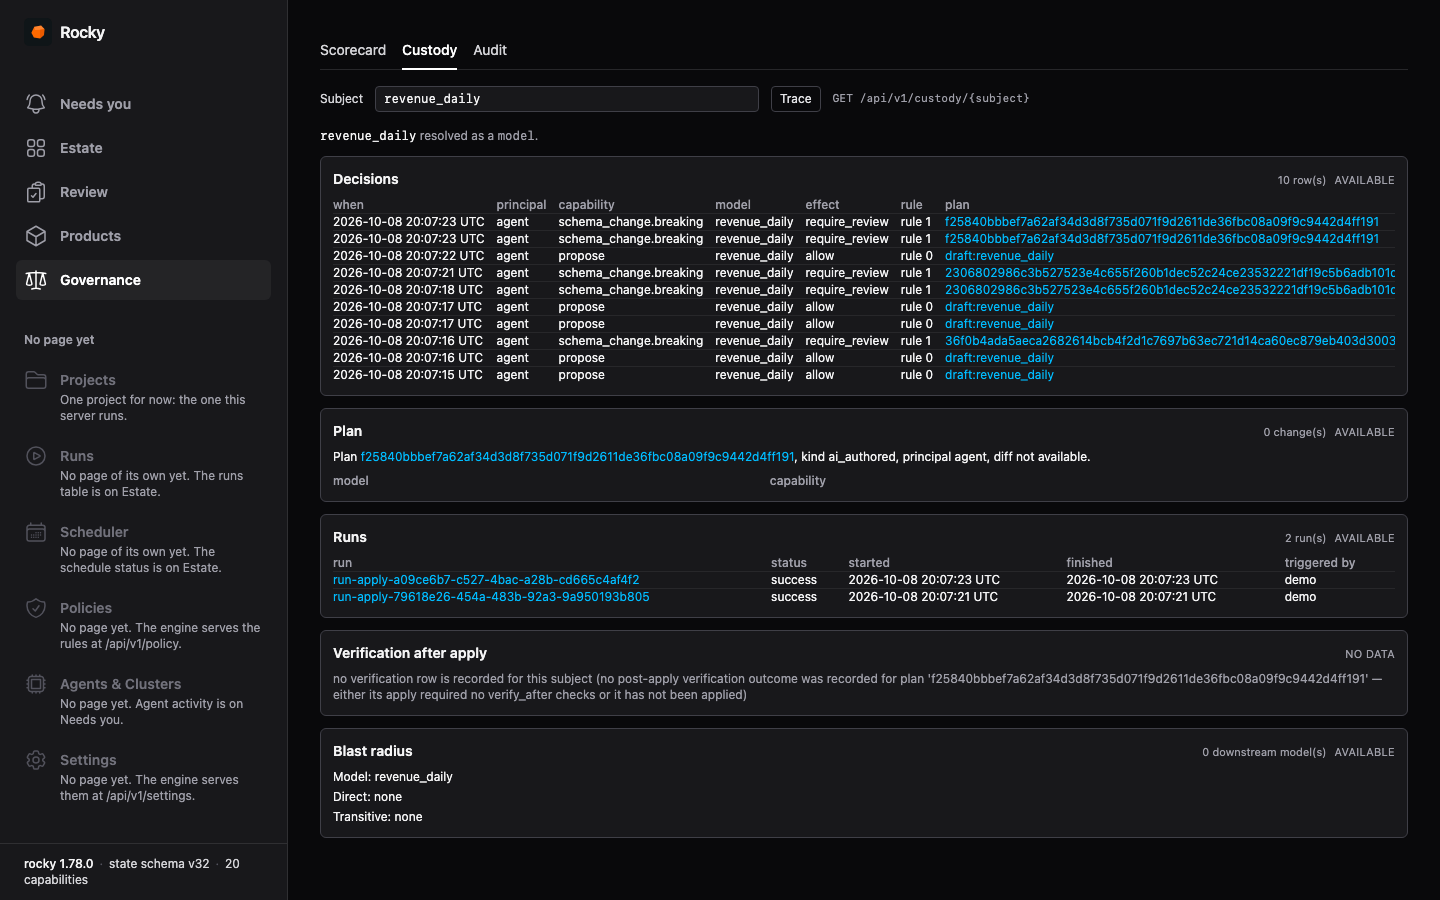
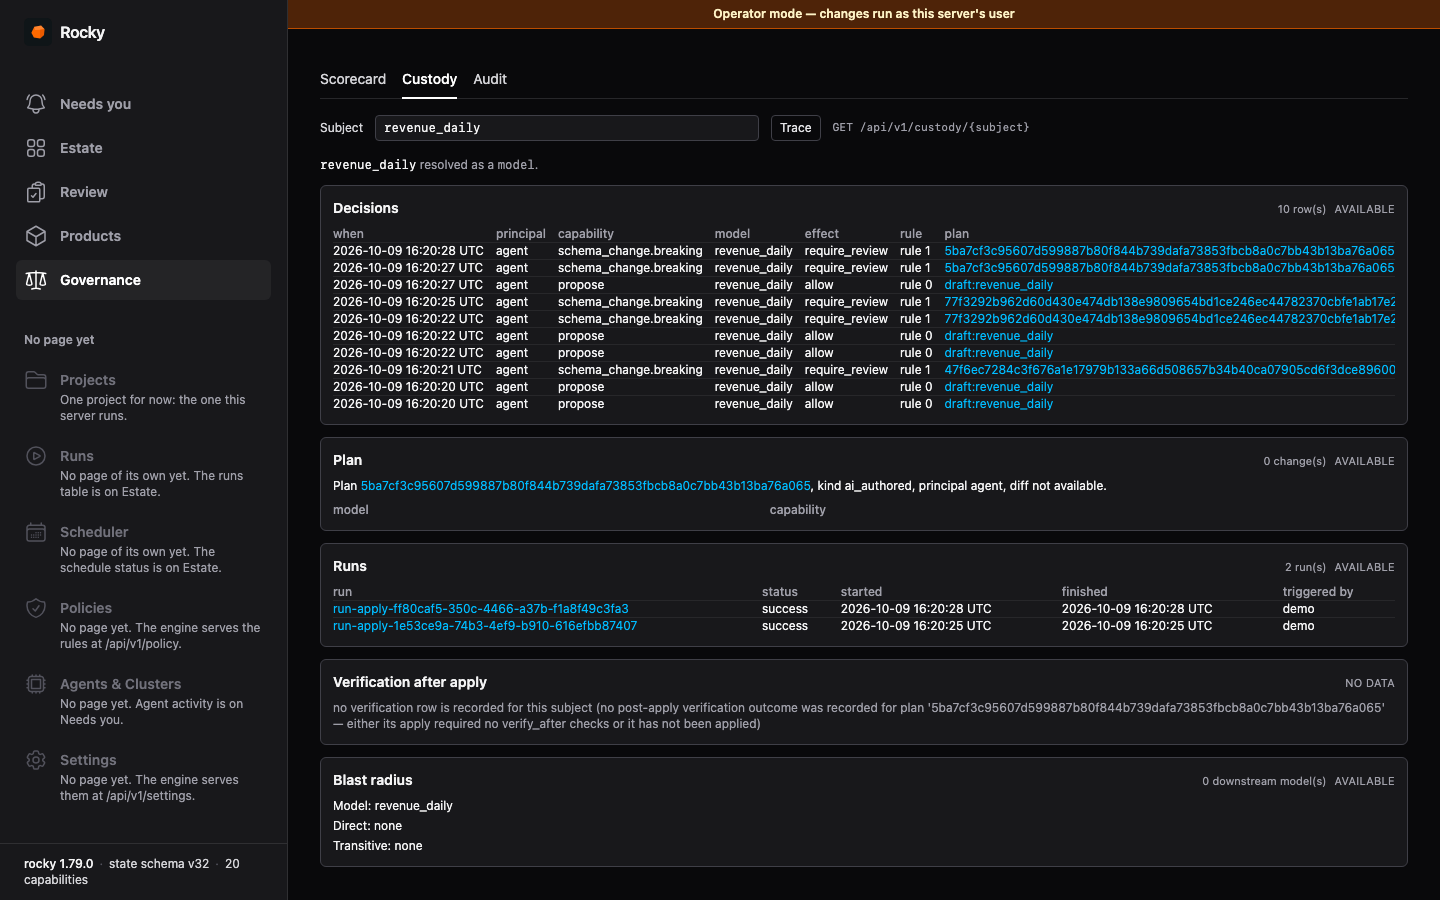
docs(ui): recapture browser UI screenshots from engine 1.79.0 in operator mode

diff --git a/docs/src/content/docs/guides/browser-ui.md b/docs/src/content/docs/guides/browser-ui.md
@@ -99,7 +99,7 @@ The Review screen lists the plans that the policy plane sent to a human, by a ru
 
 Open a plan to see why it waits:
 
-![One plan in the Review screen: an agent's run plan awaiting a human, a breaking finding that the email column of dim_customer is dropped, the default policy effect that required review, a sample-rows button, and the rocky review --approve command to copy](/ui-review.png)
+![One plan in the Review screen: an agent's run plan awaiting a human, a breaking finding that the email column of dim_customer is dropped, the default policy effect that required review, a sample-rows button, an Approve button, and the rocky review --approve command to copy](/ui-review.png)
 
 The plan screen shows:
 
